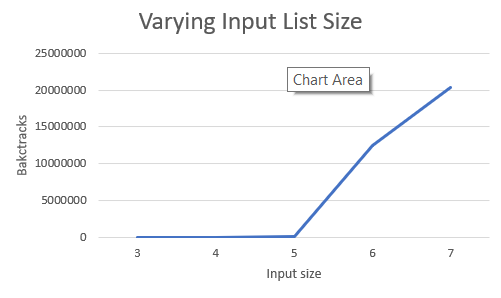
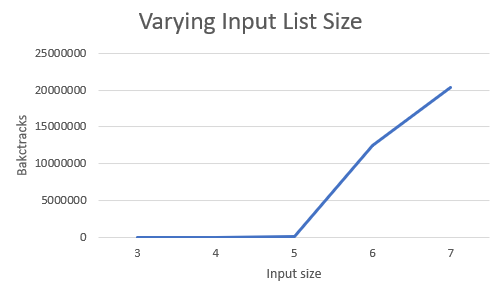
Tweaks to report

Changed region(s): [[0.5689, 0.2114, 0.7485, 0.3322]]

diff --git a/docs/report.tex b/docs/report.tex
@@ -8,6 +8,7 @@
 \newcommand{\red}[1]{\textcolor{red}{#1}}
 %
 \usepackage{graphicx}
+\graphicspath{{./imgs/}}
 \usepackage{array}
 % Used for displaying a sample figure. If possible, figure files should
 % be included in EPS format.
@@ -297,42 +298,42 @@ Ulrich Neumerkel, Institut für Information Systems Engineering, Wien Austria Eu
 
 \begin{figure}
     \centering
-    \includegraphics[width=0.8\textwidth]{graph_size_time.png}
+    \includegraphics[width=0.75\textwidth]{graph_size_time.png}
     \caption{Graph for varying input size and time}
     \label{graphSizeT}
 \end{figure}
 
 \begin{figure}
     \centering
-    \includegraphics[width=0.8\textwidth]{graph_size_backs.png}
+    \includegraphics[width=0.75\textwidth]{graph_size_backs.png}
     \caption{Graph for varying input size and number of backtracks}
     \label{graphSizeB}
 \end{figure}
 
 \begin{figure}
     \centering
-    \includegraphics[width=0.8\textwidth]{graph_size_consts.png}
+    \includegraphics[width=\textwidth]{graph_size_consts.png}
     \caption{Graph for varying input size and number of constraints}
     \label{graphSizeC}
 \end{figure}
 
 \begin{figure}
     \centering
-    \includegraphics[width=0.8\textwidth]{graph_sum_time.png}
+    \includegraphics[width=\textwidth]{graph_sum_time.png}
     \caption{Graph for varying target sum and time}
     \label{graphSumT}
 \end{figure}
 
 \begin{figure}
     \centering
-    \includegraphics[width=0.8\textwidth]{graph_sum_backs.png}
+    \includegraphics[width=\textwidth]{graph_sum_backs.png}
     \caption{Graph for varying target sum and number of backtracks}
     \label{graphSumB}
 \end{figure}
 
 \begin{figure}
     \centering
-    \includegraphics[width=0.8\textwidth]{graph_sum_consts.png}
+    \includegraphics[width=\textwidth]{graph_sum_consts.png}
     \caption{Graph for varying target sum and number of constraints}
     \label{graphSumC}
 \end{figure}
